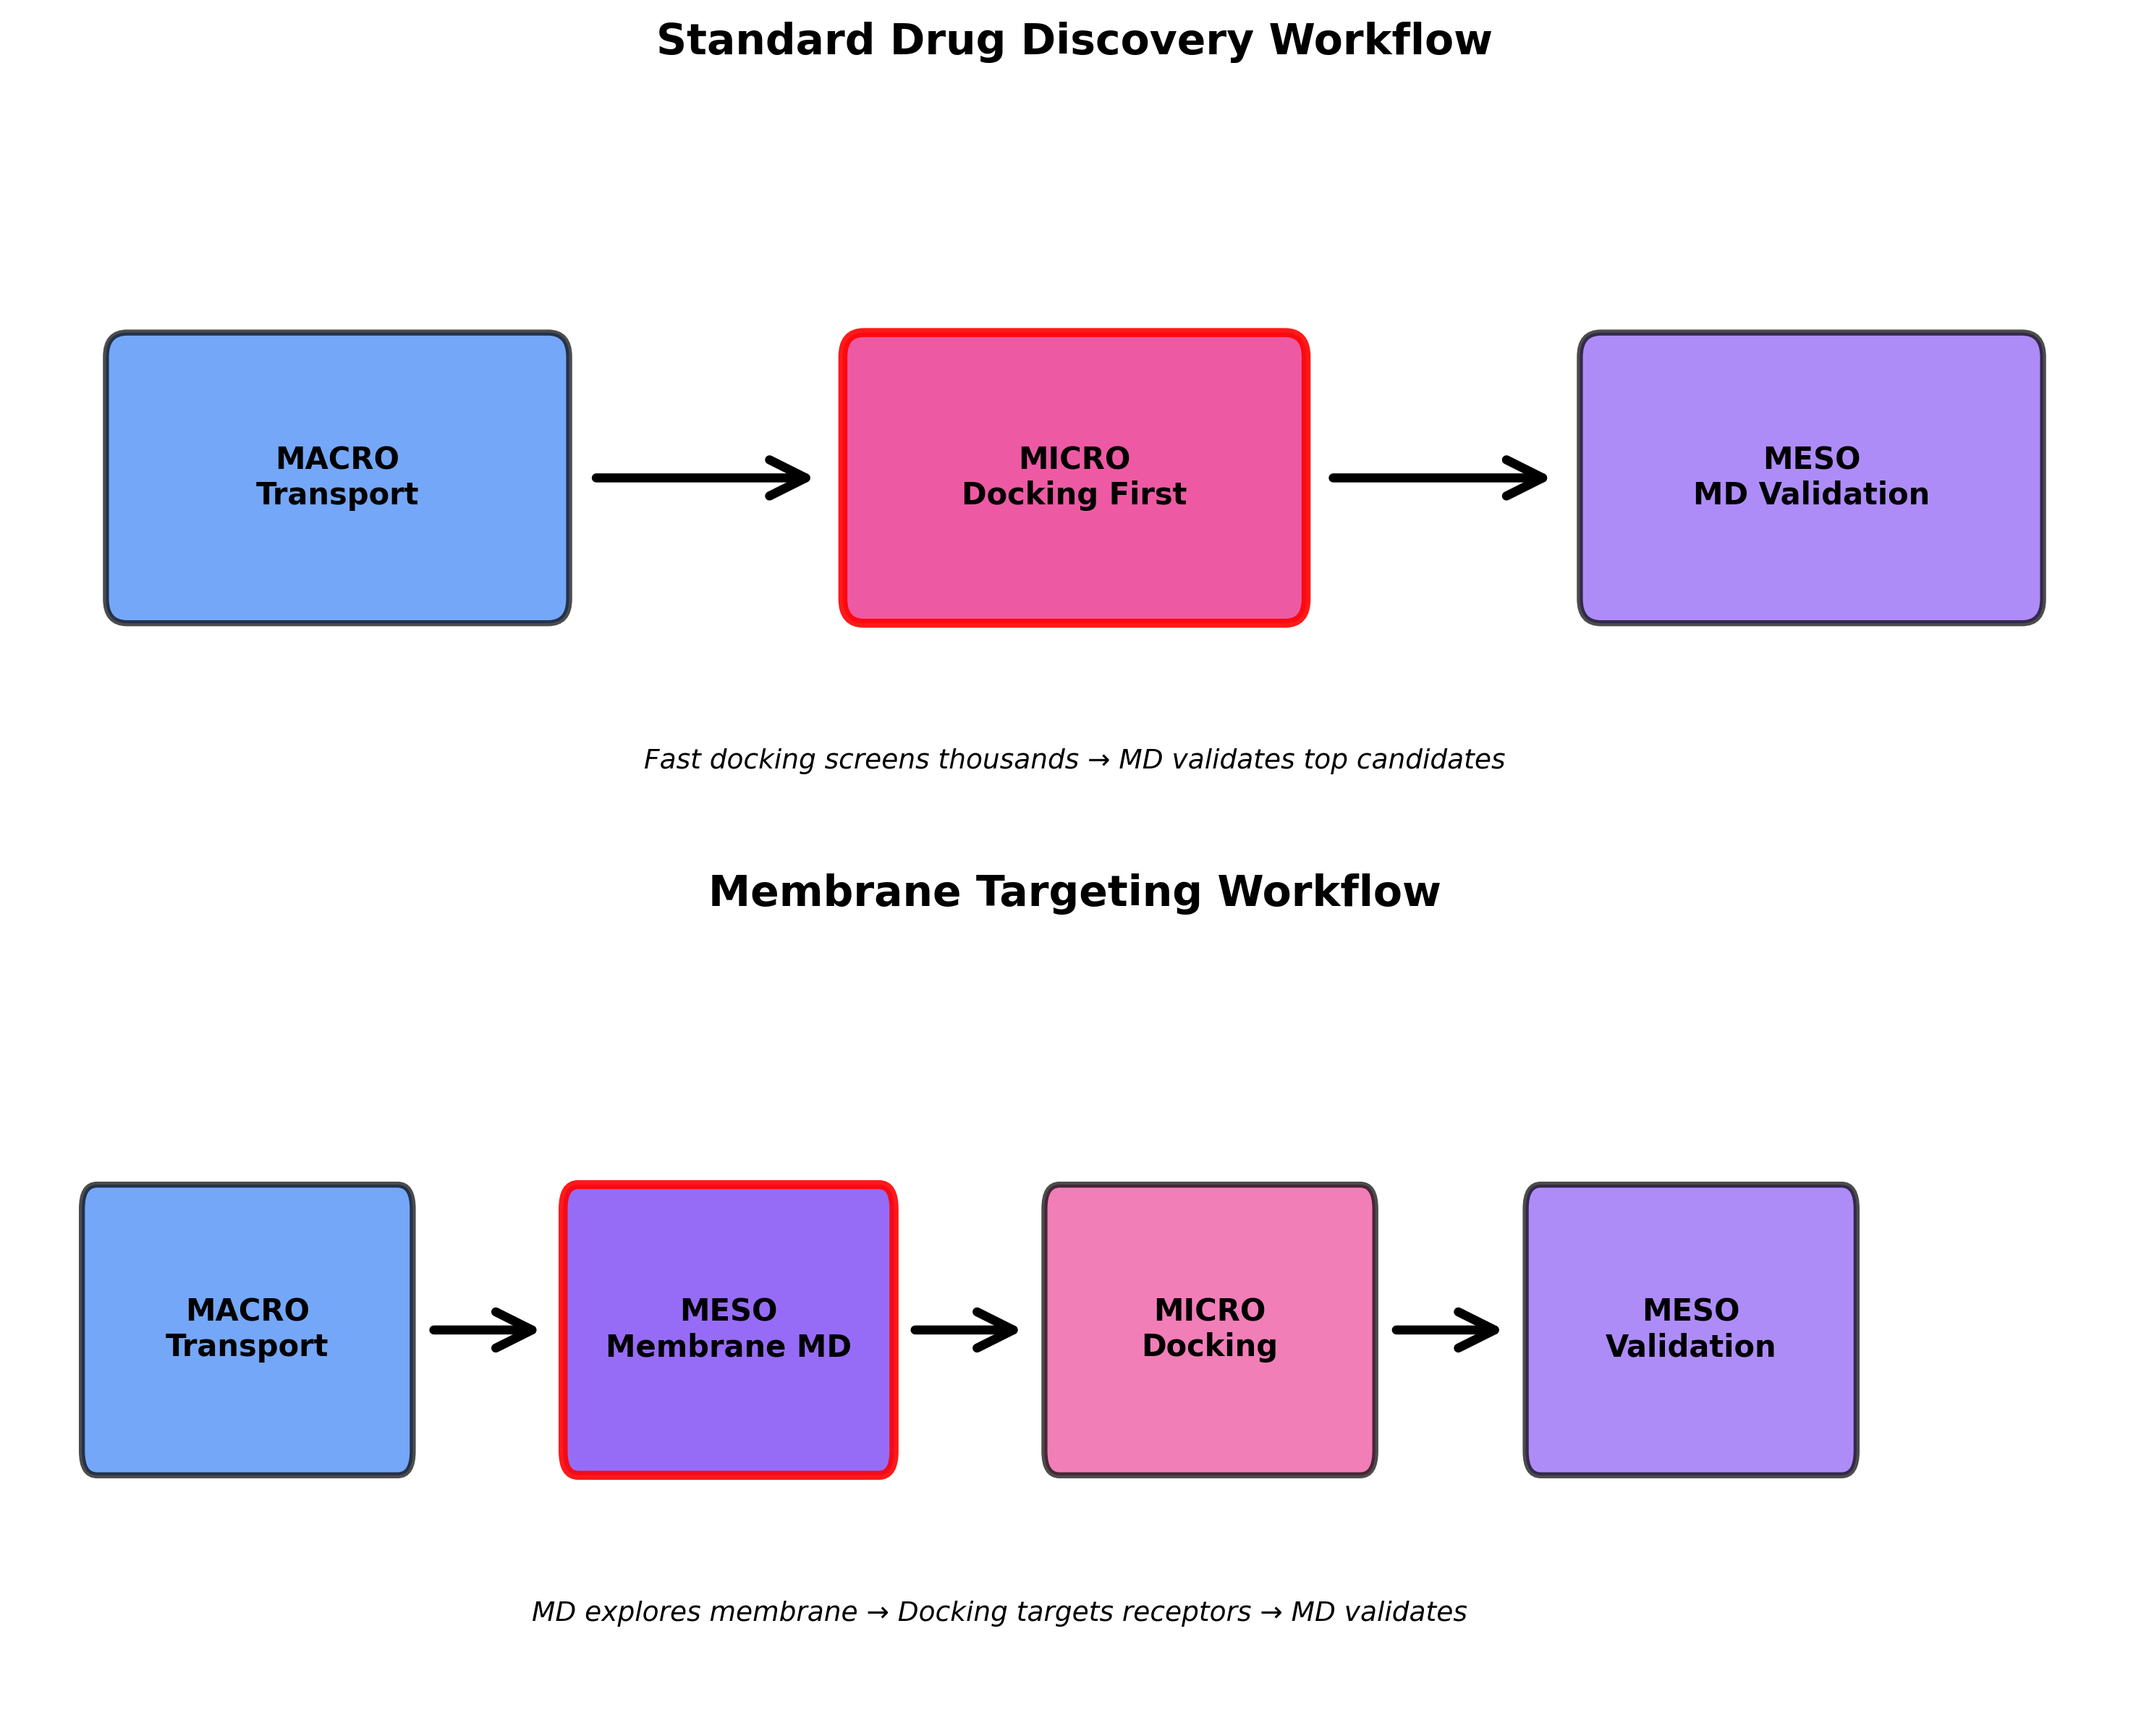
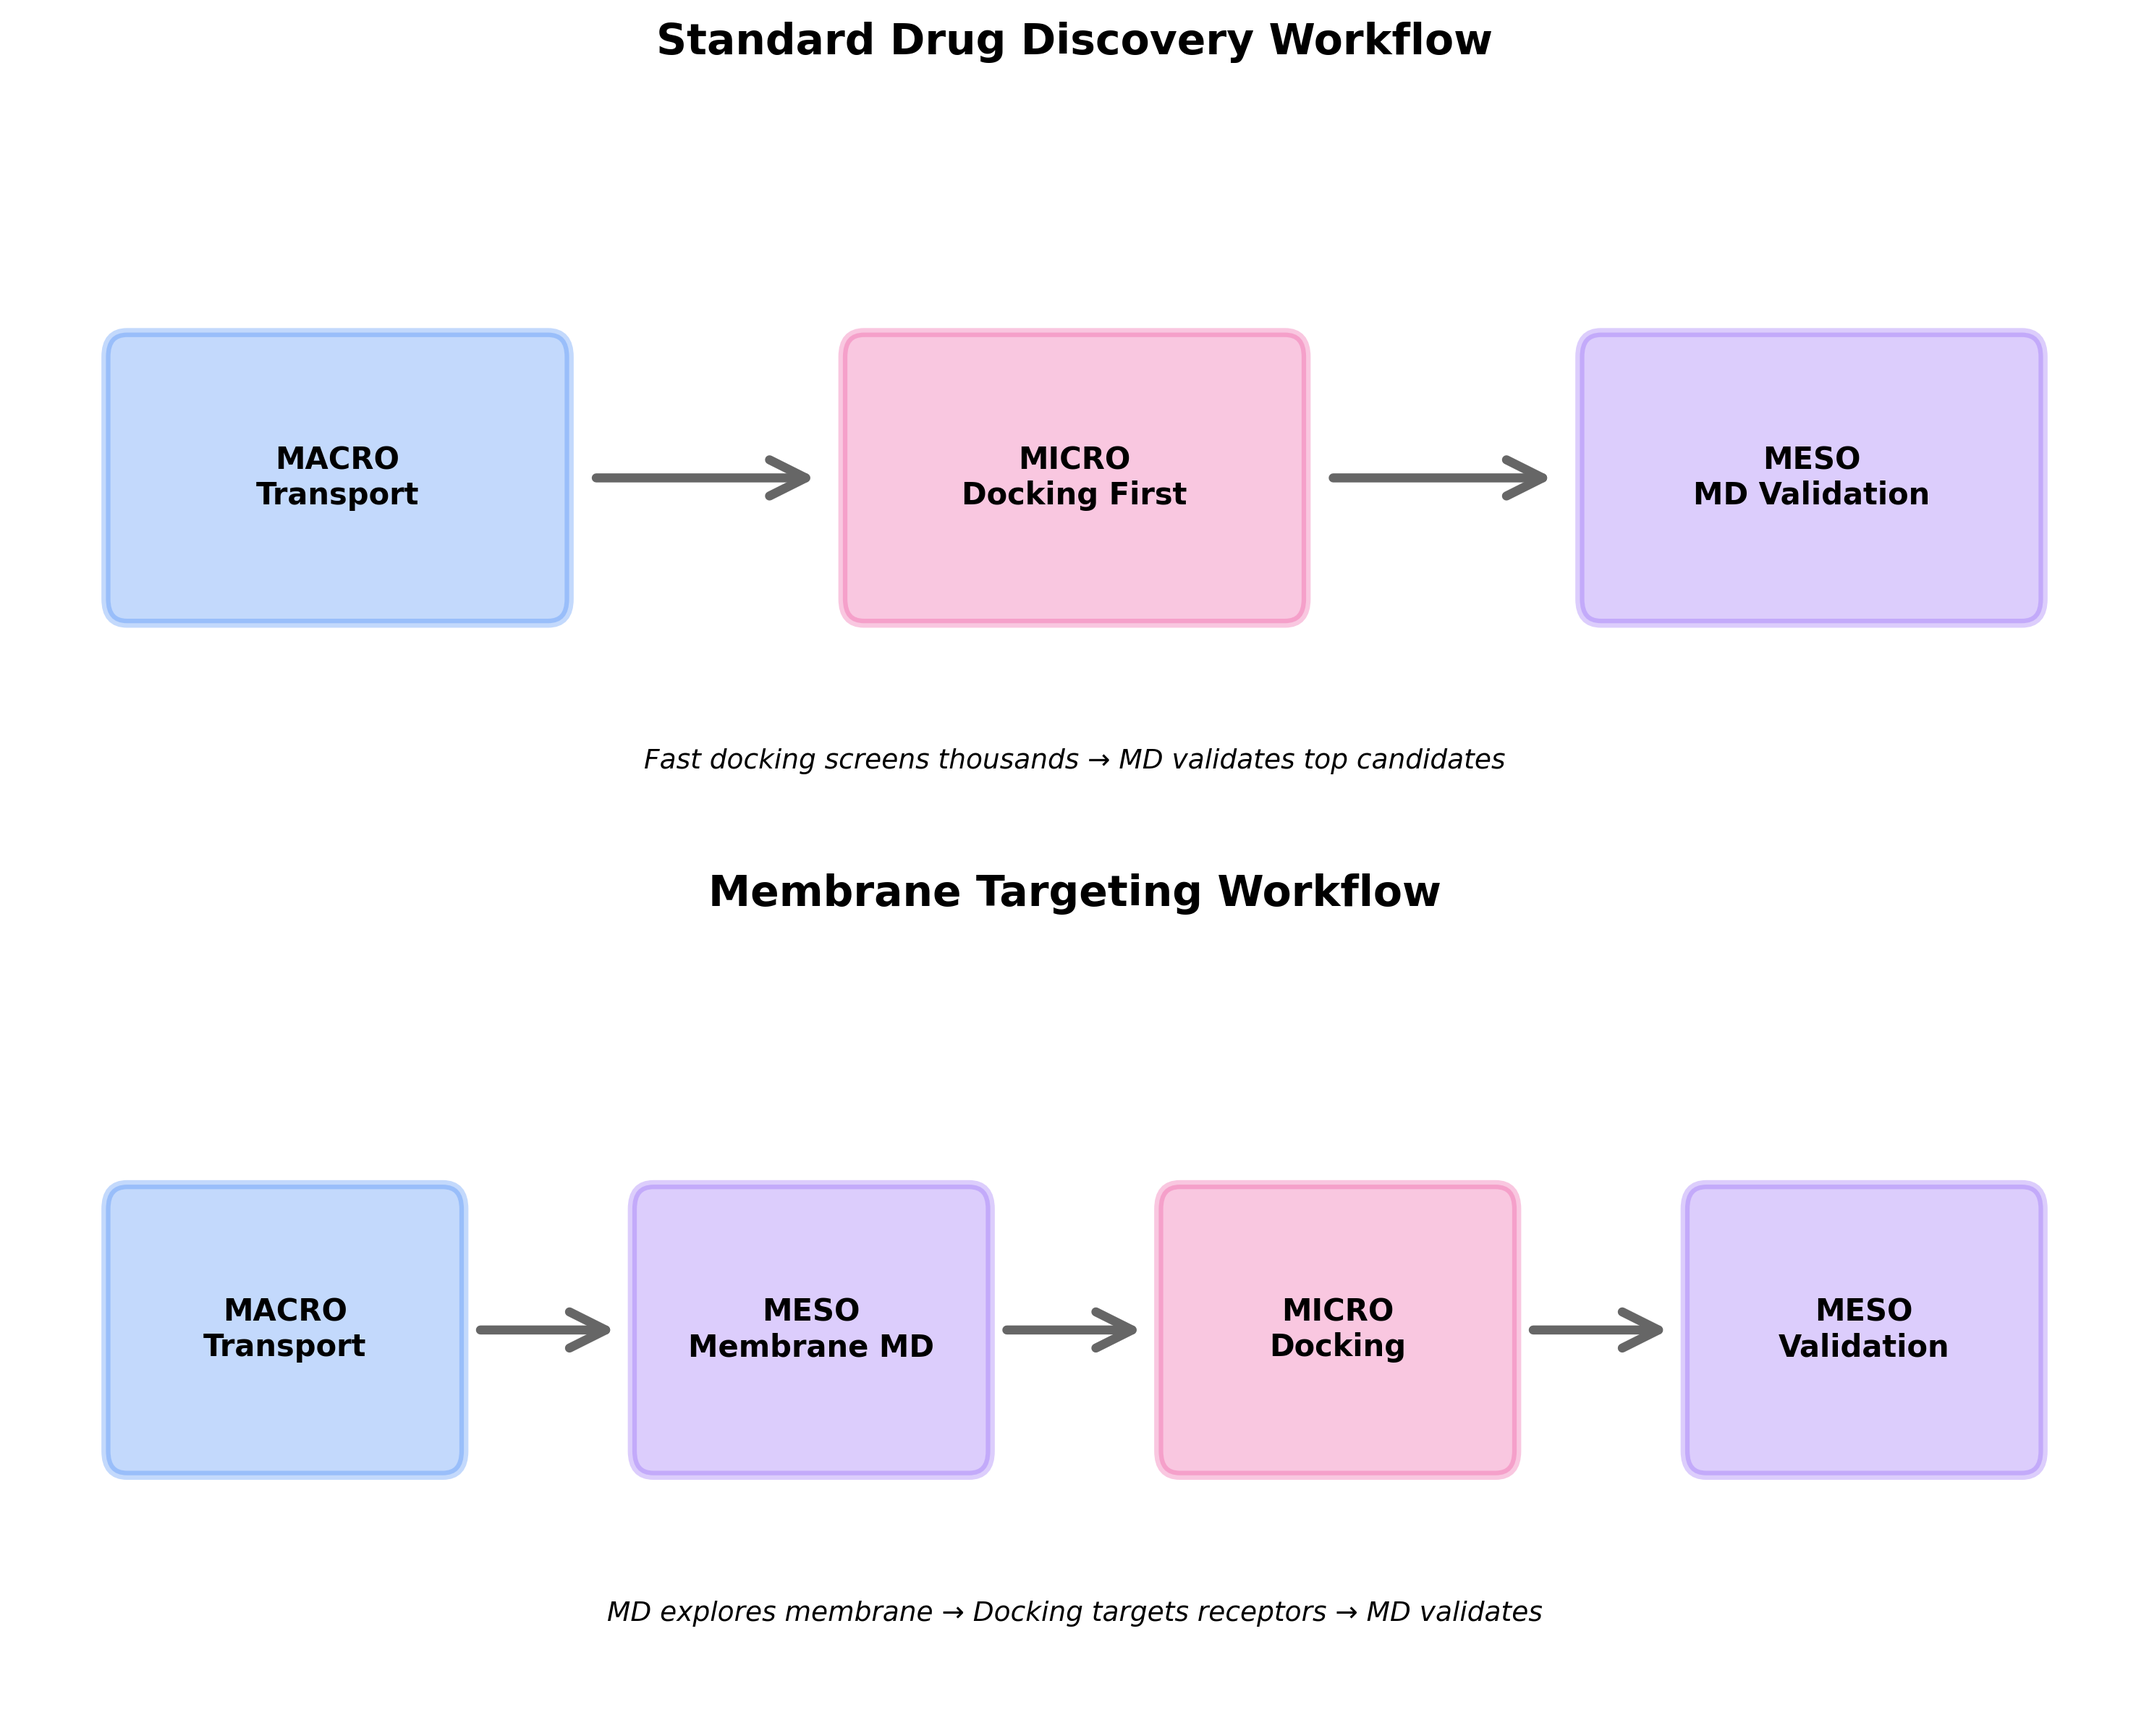
Improve bidirectional workflow diagram styling
Fixed three visual issues to match three-scale-comparison style:

1. Same width for both workflows
   - Changed membrane workflow from xlim(0,14) to xlim(0,10)
   - Adjusted box sizes from varying widths to consistent 1.5 width
   - Both diagrams now have equal visual width

2. Lighter background colors
   - Changed alpha from 0.7-0.9 to 0.3 for all boxes
   - Matches the light, subtle style of three-scale-comparison

3. Lighter frame colors
   - Changed edgecolor from black to color-matched borders
   - Changed from black (#000000) to gray (#666666) arrows
   - Changed linewidth to consistent 3px
   - Matches the softer border style of three-scale-comparison

Result: Clean, professional workflow diagram with consistent styling.

🤖 Generated with Claude Code

Changed region(s): [[0.031, 0.6869, 0.9603, 0.8743], [0.031, 0.1873, 0.9603, 0.3747], [0.2478, 0.9367, 0.7125, 0.9679]]

diff --git a/landing-page/images/generate_diagrams.py b/landing-page/images/generate_diagrams.py
@@ -163,16 +163,16 @@ def generate_workflow_diagram():
         1,
         boxstyle="round,pad=0.1",
         facecolor=COLOR_MACRO,
-        alpha=0.7,
-        edgecolor="black",
-        linewidth=2,
+        alpha=0.3,
+        edgecolor=COLOR_MACRO,
+        linewidth=3,
     )
     ax1.add_patch(macro_box)
     ax1.text(1.5, 1.5, "MACRO\nTransport", ha="center", va="center", fontsize=10, fontweight="bold")
 
     # Arrow to Micro
     arrow1 = FancyArrowPatch(
-        (2.7, 1.5), (3.8, 1.5), arrowstyle="->", mutation_scale=30, linewidth=3, color="black"
+        (2.7, 1.5), (3.8, 1.5), arrowstyle="->", mutation_scale=30, linewidth=3, color="#666666"
     )
     ax1.add_patch(arrow1)
 
@@ -183,8 +183,8 @@ def generate_workflow_diagram():
         1,
         boxstyle="round,pad=0.1",
         facecolor=COLOR_MICRO,
-        alpha=0.9,
-        edgecolor="red",
+        alpha=0.3,
+        edgecolor=COLOR_MICRO,
         linewidth=3,
     )
     ax1.add_patch(micro_box)
@@ -194,7 +194,7 @@ def generate_workflow_diagram():
 
     # Arrow to Meso
     arrow2 = FancyArrowPatch(
-        (6.2, 1.5), (7.3, 1.5), arrowstyle="->", mutation_scale=30, linewidth=3, color="black"
+        (6.2, 1.5), (7.3, 1.5), arrowstyle="->", mutation_scale=30, linewidth=3, color="#666666"
     )
     ax1.add_patch(arrow2)
 
@@ -205,9 +205,9 @@ def generate_workflow_diagram():
         1,
         boxstyle="round,pad=0.1",
         facecolor=COLOR_MESO,
-        alpha=0.7,
-        edgecolor="black",
-        linewidth=2,
+        alpha=0.3,
+        edgecolor=COLOR_MESO,
+        linewidth=3,
     )
     ax1.add_patch(meso_box)
     ax1.text(
@@ -224,88 +224,90 @@ def generate_workflow_diagram():
     )
 
     # Membrane Targeting Workflow (MD First)
-    ax2.set_xlim(0, 14)
+    ax2.set_xlim(0, 10)
     ax2.set_ylim(0, 3)
     ax2.axis("off")
     ax2.set_title("Membrane Targeting Workflow", fontsize=14, fontweight="bold", pad=20)
 
-    # Macro
+    # Macro - same width layout, 4 boxes total
     macro_box2 = FancyBboxPatch(
         (0.5, 1),
-        2,
+        1.5,
         1,
         boxstyle="round,pad=0.1",
         facecolor=COLOR_MACRO,
-        alpha=0.7,
-        edgecolor="black",
-        linewidth=2,
+        alpha=0.3,
+        edgecolor=COLOR_MACRO,
+        linewidth=3,
     )
     ax2.add_patch(macro_box2)
-    ax2.text(1.5, 1.5, "MACRO\nTransport", ha="center", va="center", fontsize=10, fontweight="bold")
+    ax2.text(
+        1.25, 1.5, "MACRO\nTransport", ha="center", va="center", fontsize=10, fontweight="bold"
+    )
 
     arrow1 = FancyArrowPatch(
-        (2.7, 1.5), (3.5, 1.5), arrowstyle="->", mutation_scale=30, linewidth=3, color="black"
+        (2.15, 1.5), (2.85, 1.5), arrowstyle="->", mutation_scale=30, linewidth=3, color="#666666"
     )
     ax2.add_patch(arrow1)
 
     # Meso (highlighted first)
     meso_box2 = FancyBboxPatch(
-        (3.7, 1),
-        2,
+        (3.0, 1),
+        1.5,
         1,
         boxstyle="round,pad=0.1",
         facecolor=COLOR_MESO,
-        alpha=0.9,
-        edgecolor="red",
+        alpha=0.3,
+        edgecolor=COLOR_MESO,
         linewidth=3,
     )
     ax2.add_patch(meso_box2)
     ax2.text(
-        4.7, 1.5, "MESO\nMembrane MD", ha="center", va="center", fontsize=10, fontweight="bold"
+        3.75, 1.5, "MESO\nMembrane MD", ha="center", va="center", fontsize=10, fontweight="bold"
     )
 
     arrow2 = FancyArrowPatch(
-        (5.9, 1.5), (6.7, 1.5), arrowstyle="->", mutation_scale=30, linewidth=3, color="black"
+        (4.65, 1.5), (5.35, 1.5), arrowstyle="->", mutation_scale=30, linewidth=3, color="#666666"
     )
     ax2.add_patch(arrow2)
 
     # Micro
     micro_box2 = FancyBboxPatch(
-        (6.9, 1),
-        2,
+        (5.5, 1),
+        1.5,
         1,
         boxstyle="round,pad=0.1",
         facecolor=COLOR_MICRO,
-        alpha=0.7,
-        edgecolor="black",
-        linewidth=2,
+        alpha=0.3,
+        edgecolor=COLOR_MICRO,
+        linewidth=3,
     )
     ax2.add_patch(micro_box2)
-    ax2.text(7.9, 1.5, "MICRO\nDocking", ha="center", va="center", fontsize=10, fontweight="bold")
+    ax2.text(6.25, 1.5, "MICRO\nDocking", ha="center", va="center", fontsize=10, fontweight="bold")
 
     arrow3 = FancyArrowPatch(
-        (9.1, 1.5), (9.9, 1.5), arrowstyle="->", mutation_scale=30, linewidth=3, color="black"
+        (7.15, 1.5), (7.85, 1.5), arrowstyle="->", mutation_scale=30, linewidth=3, color="#666666"
     )
     ax2.add_patch(arrow3)
 
     # Meso validation
     meso_box3 = FancyBboxPatch(
-        (10.1, 1),
-        2,
+        (8.0, 1),
+        1.5,
         1,
         boxstyle="round,pad=0.1",
         facecolor=COLOR_MESO,
-        alpha=0.7,
-        edgecolor="black",
-        linewidth=2,
+        alpha=0.3,
+        edgecolor=COLOR_MESO,
+        linewidth=3,
     )
     ax2.add_patch(meso_box3)
     ax2.text(
-        11.1, 1.5, "MESO\nValidation", ha="center", va="center", fontsize=10, fontweight="bold"
+        8.75, 1.5, "MESO\nValidation", ha="center", va="center", fontsize=10, fontweight="bold"
     )
 
     ax2.text(
-        6.5,
+        5,
         0.3,
         "MD explores membrane → Docking targets receptors → MD validates",
         ha="center",
